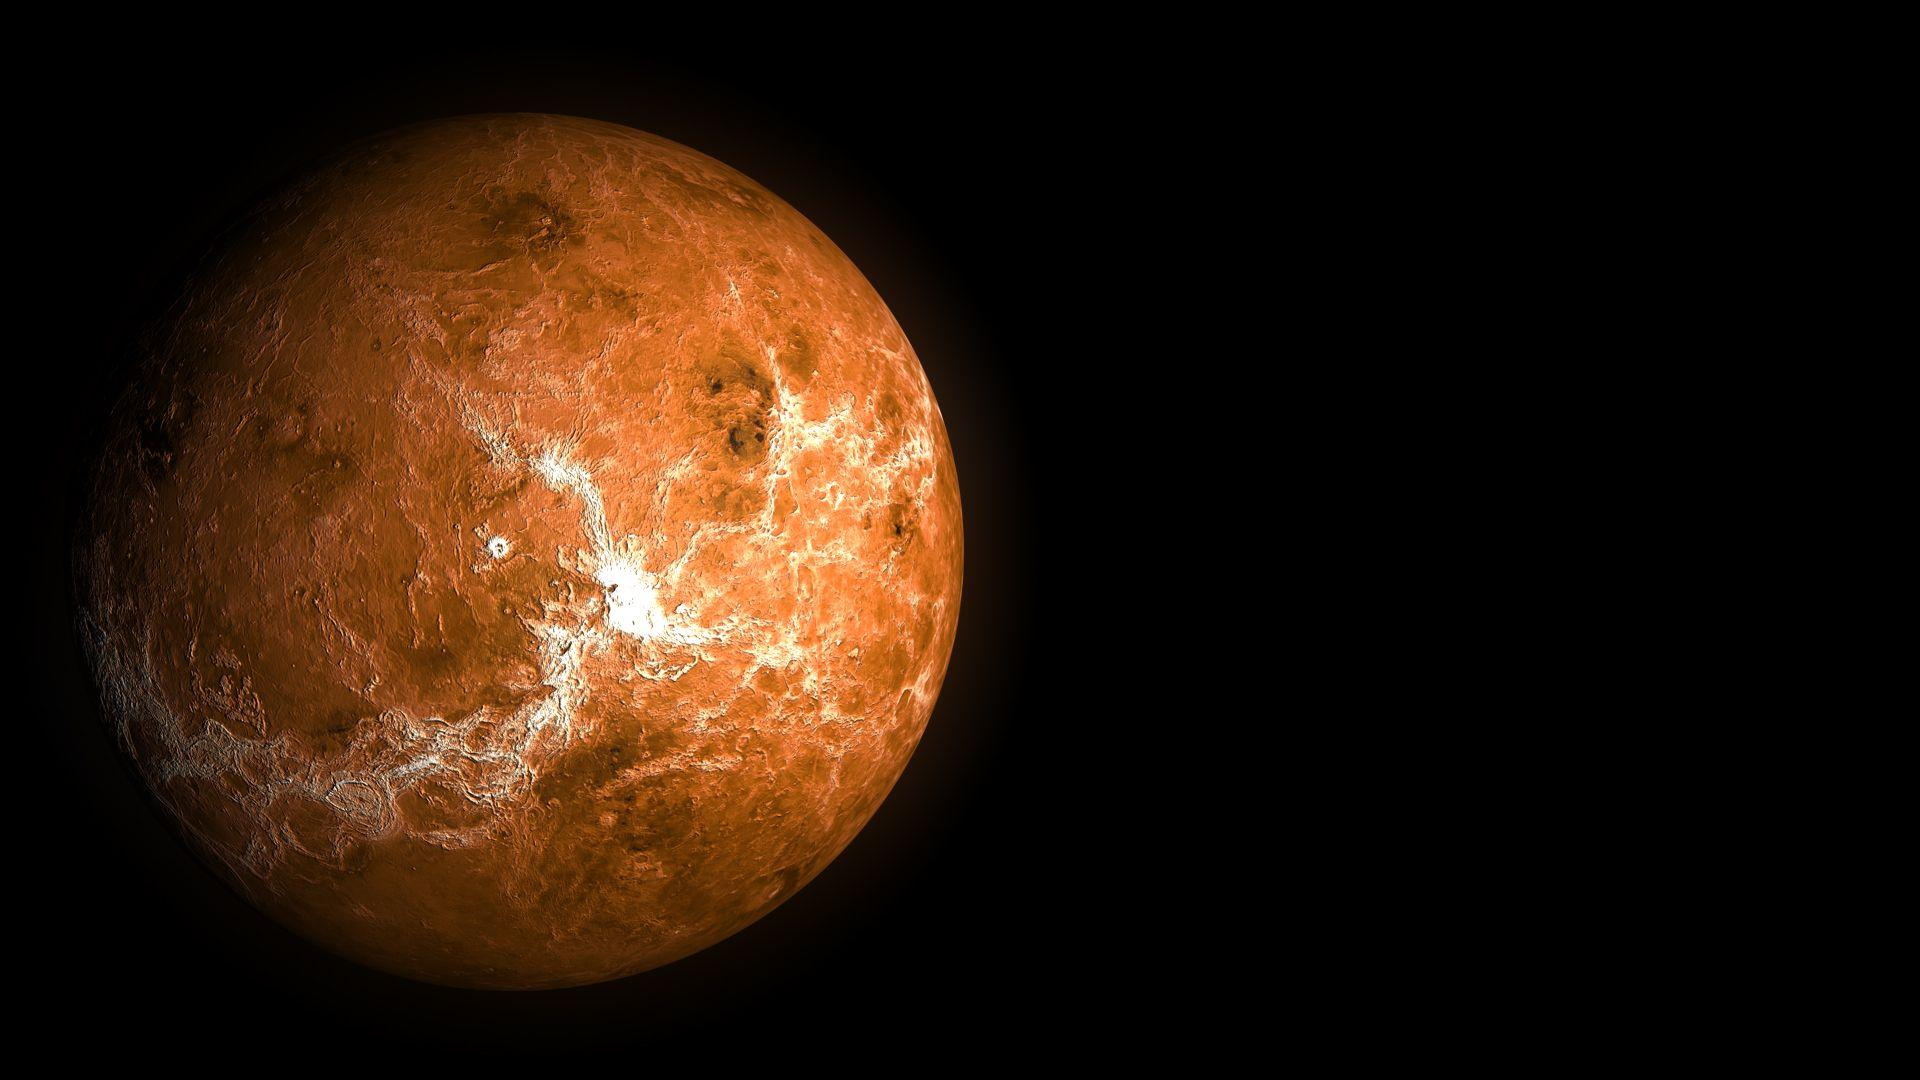
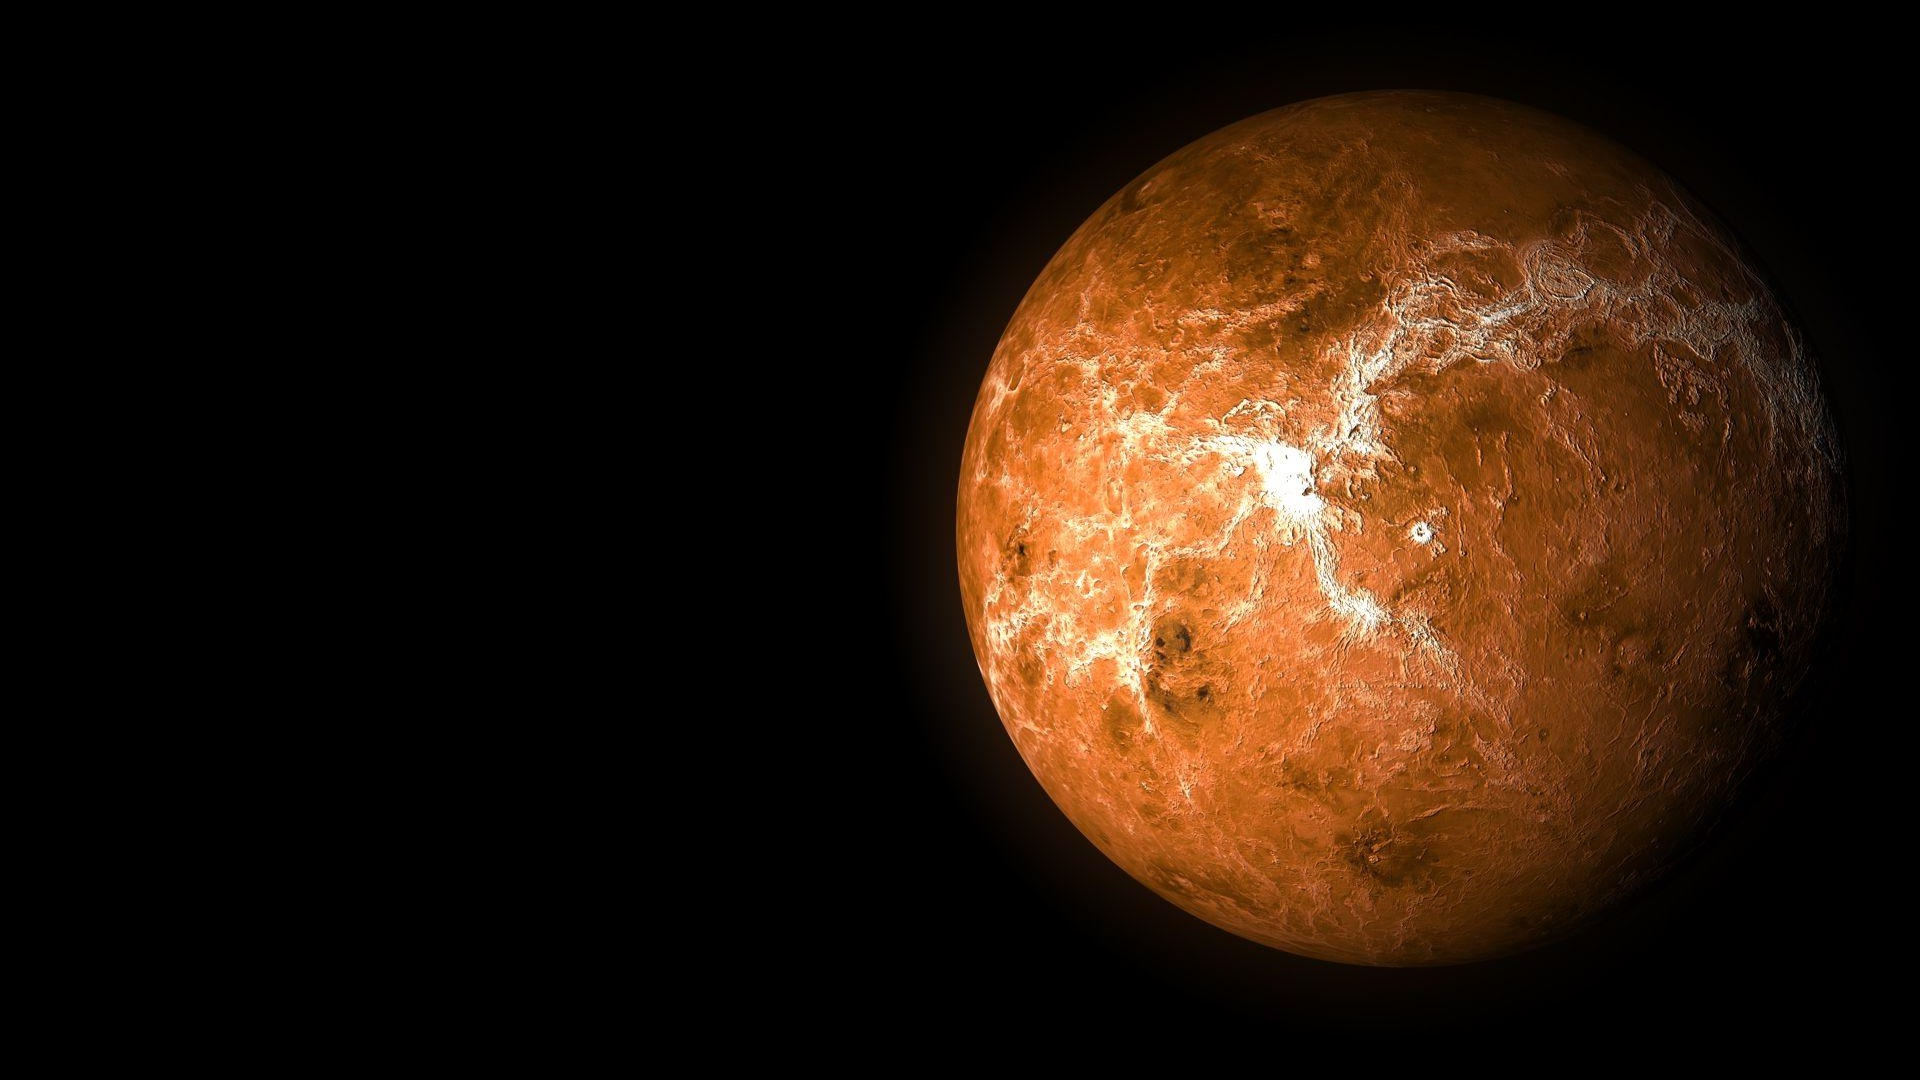
imagenes añadidas

diff --git a/style.css b/style.css
@@ -109,6 +109,7 @@ body {
 .destino {
   width: 90%;
   display: grid;
+  grid-template-rows: auto repeat(4, 450px);
   grid-template-columns: 2;
   grid-template-rows: 5;
   margin: auto;
@@ -123,10 +124,43 @@ body {
   margin-bottom: 50px;
 }
 
+.texto-destino {
+  align-items: center;
+  margin: auto;
+}
+
 .texto-destino p {
   font-size: 1rem;
 }
 
 .texto-destino h2 {
   color:#e35757;
+}
+
+.img-venus {
+  background-image: url(img/destinos/venus.jpg);
+  background-size: contain;
+  background-repeat: no-repeat;
+  background-position: right;
+}
+
+.img-marte {
+  background-image: url(img/destinos/marte.jpg);
+  background-size: contain;
+  background-repeat: no-repeat;
+  background-position: right;
+}
+
+.img-saturno {
+  background-image: url(img/destinos/saturno.jpg);
+  background-size: contain;
+  background-repeat: no-repeat;
+  background-position: right;
+}
+
+.img-pluton {
+  background-image: url(img/destinos/pluton.jpg);
+  background-size: contain;
+  background-repeat: no-repeat;
+  background-position: right;
 }
